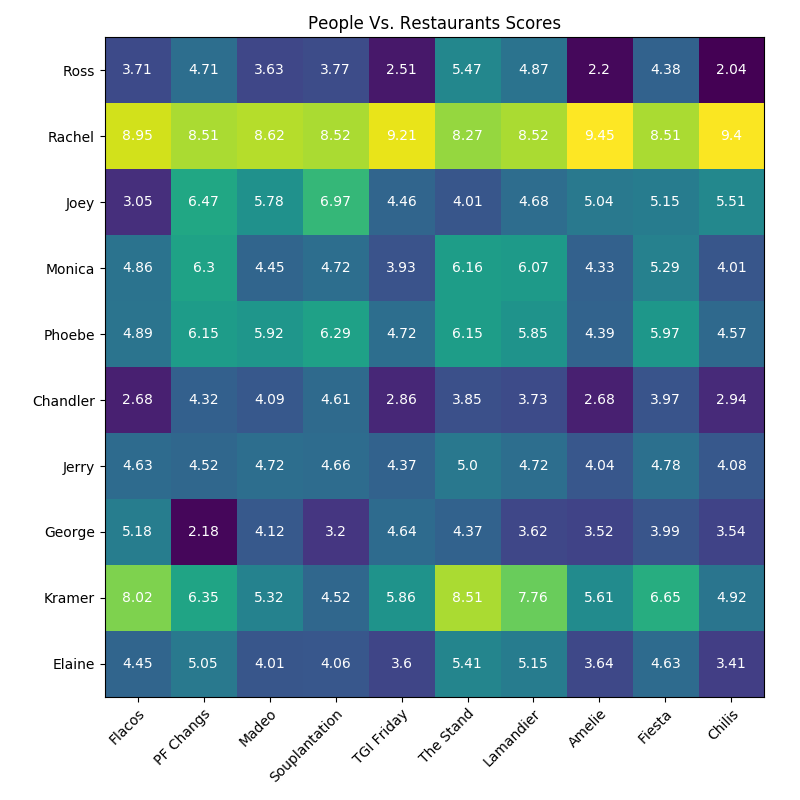
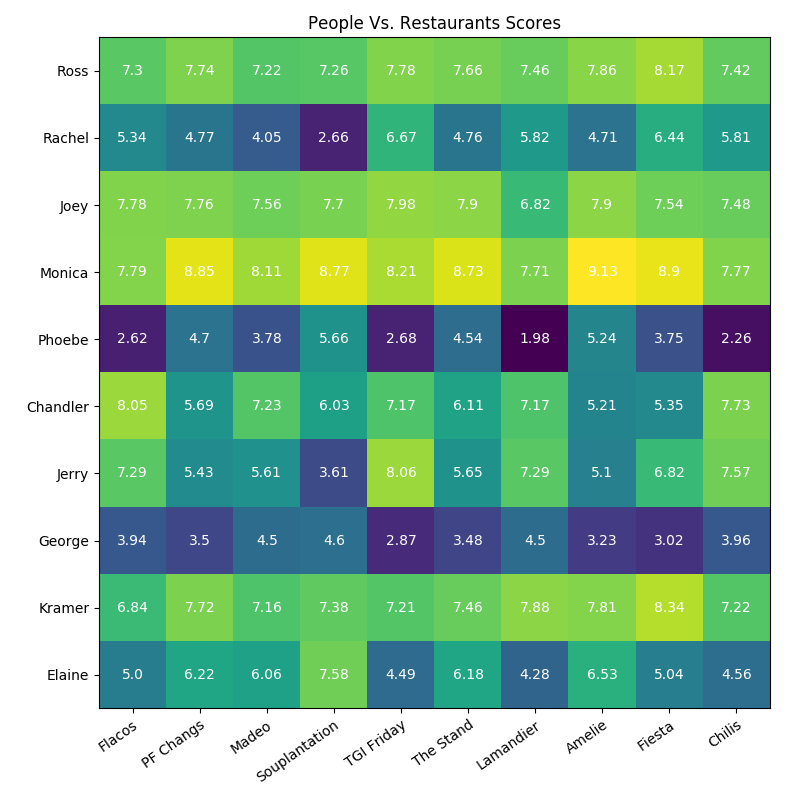
Latest Version

diff --git a/DecisionMakingWithMatrices.py b/DecisionMakingWithMatrices.py
@@ -24,7 +24,7 @@ def make_dict(names, categories, floatRint):
             random_prefs = np.random.dirichlet(np.ones(len(categories)),size=1)
             # Need to reshape as dirichlet creates list of list
             random_prefs = random_prefs.reshape(len(categories),)
-            random_prefs = np.around(random_prefs, decimals = 4)
+            random_prefs = np.around(random_prefs, decimals = 2)
         elif floatRint == "I":
             random_prefs = np.random.randint(1, 11, len(categories))
         else:
@@ -102,7 +102,7 @@ print ("=-=-=-=-=-=-= Restaurants Names =-=-=-=-=-=-=-=-=")
 print(r_names)
 print("")
 print("=-=-=-=-=-=-=-=-= Category =-=-=-=-=-=-=")
-print(p_cats)
+print(r_cats)
 
 print("")
 print("Transform the restaurant data into a matrix(M_resturants) use the same column index.")
@@ -165,9 +165,13 @@ print("")
 print(M_usr_x_rest_rank)
 print("")
 
-print ("Why is there a difference between the two?")  
+print("Why is there a difference between the two?")
+print("Individual choice and collective choice are closely align if there are no extreme scores (high/low) from individuals")
 print("What problem arrives?")
+print("High/Low score across on restaurants, for example one person giving high scores to multiple restaurants creates bias ")  
 print("What does represent in the real world?")
+print("It is difficult to control individual choice as it is based on the individual experience.")
+print("This will also open up an opportunity to check if the data is accurate")
 
 print("")
 # Code reference:
@@ -181,7 +185,7 @@ ax.set_yticks(np.arange(len(p_names)))
 ax.set_xticklabels(r_names)
 ax.set_yticklabels(p_names)
 
-plt.setp(ax.get_xticklabels(), rotation=45, ha="right",
+plt.setp(ax.get_xticklabels(), rotation=35, ha="right",
          rotation_mode="anchor")
 
 for i in range(len(p_names)):
@@ -194,19 +198,22 @@ fig.tight_layout()
 plt.show()
 plt.close()
 
-# How should you preprocess your data to remove this problem.
-# Find user profiles that are problematic, explain why?
-n_clusters = 1
-batch_size = 45
+print("How should you preprocess your data to remove this problem.")
+print("Could remove the outlier (scored very low) and check if this improves the situation")
+print("Identify a mean between the person and the group so that every one can enjoy the meal")
+
+print("Find user profiles that are problematic, explain why?")
+print("Heat map created on the matrix could identify the person who made those choices for further action/decision")
+
 # KMeans
 
-colors = ['#4EACC5', '#FF9C34', '#4E9A06','#377eb8']
+n_clusters = 1 # Initialize, gets incremented inside the loop.
+colors = ['#4EACC5', '#FF9C34', '#4E9A06','#377eb8'] # colors for the plot.
 
 fig = plt.figure(figsize=(8, 5))
 fig.subplots_adjust(left=0.02, right=0.98, bottom=0.05, top=0.9)
 
 for i in range(3):
-    
     
     ax = fig.add_subplot(1, 3, n_clusters)
     n_clusters = n_clusters+1
@@ -228,7 +235,8 @@ for i in range(3):
 
 # MiniBatchKMeans
 '''
-mbk = MiniBatchKMeans(init='k-means++', n_clusters=3, batch_size=batch_size,
+batch_size = 45
+bk = MiniBatchKMeans(init='k-means++', n_clusters=3, batch_size=batch_size,
                       n_init=10, max_no_improvement=10, verbose=0).fit(M_people_X_restaurants)
 mbk_means_cluster_centers = np.sort(mbk.cluster_centers_, axis=0)
 mbk_means_labels = pairwise_distances_argmin(M_people_X_restaurants, mbk_means_cluster_centers)
@@ -265,7 +273,10 @@ for i in range(len(M_restaurant_min)):
     print (r_names[i], "got low score from ", p_names[M_restaurant_min[i]])
 
 
-# Should you split in two groups today?
+print ("Should you split in two groups today?")
+print ("K-Mean clustering could help decide on the answer, if there is unanimous choice of one individual then Yes.")
+print ("Otherwise, rely on the recommendation from the clustering results.")
+
 print("")
 print("Ok. Now you just found out the boss is paying for the meal. How should you adjust. Now what is best restaurant?")
 print("!! Awesome, make the cost weight to zero and recalculate the rank.")
@@ -279,6 +290,8 @@ M_usr_x_rest_rank = sorted(rankMatrix.items(), key=lambda kv: kv[1])
 print ("=-=-=-=-= Restaurants Rank by all People (Boss is paying) =-=-=-=-=-=-=")
 print (M_usr_x_rest_rank)
 
+print("")
+print("As you can see, the top restaurants choices are same, Cost is not the only deciding factor")
 # Tommorow you visit another team. You have the same restaurants and they told you their optimal ordering for restaurants.  Can you find their weight matrix?
 sys.stdout = orig_stdout
 f.close()
